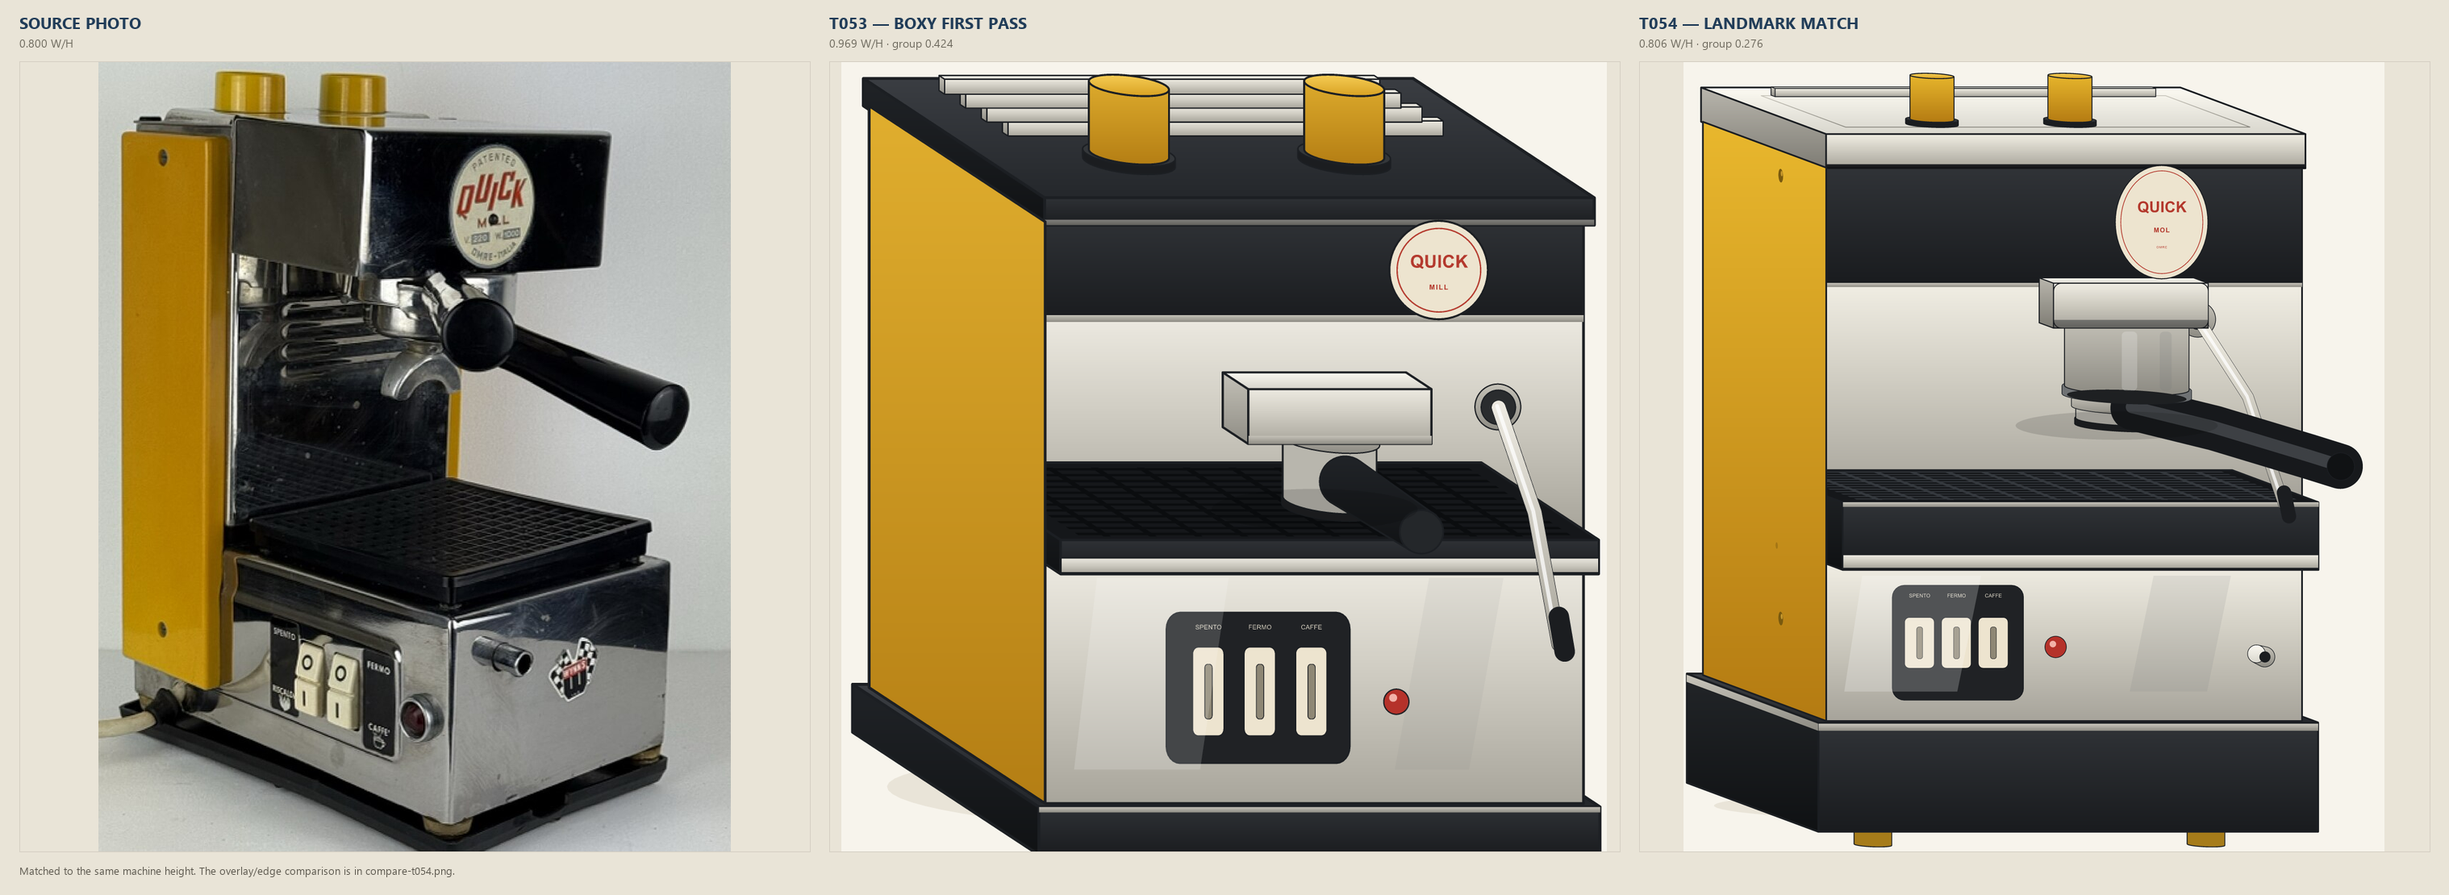
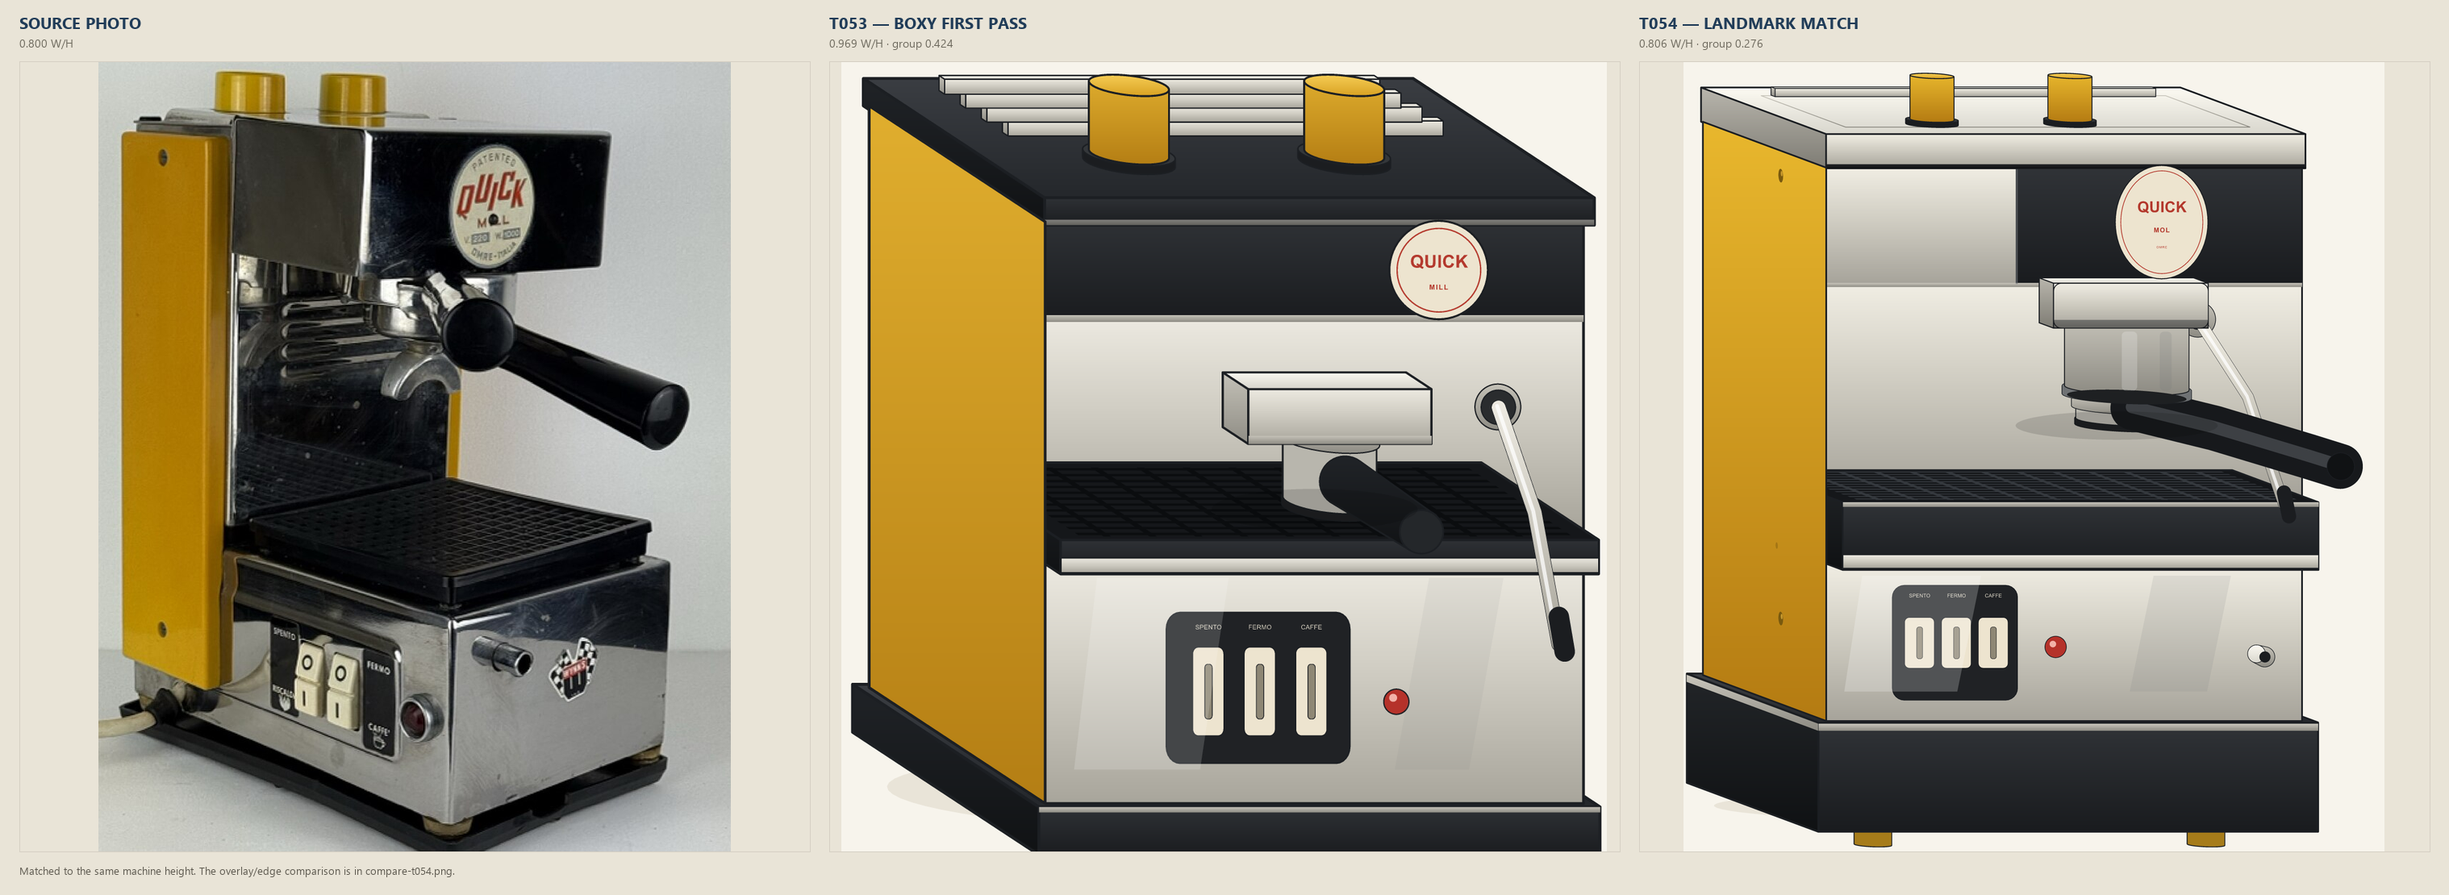
T054 [vector]: split front face at chrome/black seam; record failed camera fit

Changed region(s): [[0.7431, 0.1838, 0.836, 0.3369]]

diff --git a/experiments/T054-20261102-opencode-vector-match/inputs/calibrate_camera.py b/experiments/T054-20261102-opencode-vector-match/inputs/calibrate_camera.py
@@ -1,0 +1,106 @@
+#!/usr/bin/env python3
+"""Fit a pinhole camera to the Quick Mill body box from the source photo.
+
+Method: fSpy / single-view metrology idea (vanishing points) reduced to six
+manually measured box corners and a least-squares look-at camera.  It is a
+calibration check, not a trace: the scene remains object-space primitives.
+"""
+from __future__ import annotations
+
+import json
+from pathlib import Path
+
+import numpy as np
+from scipy.optimize import least_squares
+
+HERE = Path(__file__).resolve().parent
+EXP = HERE.parent
+OUT = EXP / "preview"
+
+# Object-space body box (T054 dimensions): x 10..90, y 18.5..118, z 0..60.
+OBJ = np.array([
+    [10.0, 118.0, 0.0],   # A front top-left
+    [90.0, 118.0, 0.0],   # B front top-right
+    [10.0, 18.5, 0.0],    # C front bottom-left
+    [90.0, 18.5, 0.0],    # D front bottom-right
+    [10.0, 118.0, 60.0],  # E back top-left
+    [10.0, 18.5, 60.0],   # F back bottom-left
+], dtype=float)
+
+# Photo pixels, 1280 x 1512.
+IMG = np.array([
+    [390.0, 420.0],
+    [930.0, 470.0],
+    [390.0, 1230.0],
+    [1000.0, 1280.0],
+    [250.0, 370.0],
+    [250.0, 1200.0],
+], dtype=float)
+
+W, H = 1280.0, 1512.0
+PRINCIPAL = np.array([W / 2, H / 2])
+
+
+def camera_matrix(params):
+    cx, cy, cz, tx, ty, tz, f = params
+    C = np.array([cx, cy, cz], dtype=float)
+    T = np.array([tx, ty, tz], dtype=float)
+    forward = T - C
+    forward /= np.linalg.norm(forward)
+    up = np.array([0.0, 1.0, 0.0])
+    right = np.cross(up, forward)
+    right /= np.linalg.norm(right)
+    true_up = np.cross(forward, right)
+    R = np.stack([right, true_up, forward])  # world -> camera rows
+    return C, R, f
+
+
+def project(params, points):
+    C, R, f = camera_matrix(params)
+    d = points - C
+    cam = d @ R.T
+    z = cam[:, 2]
+    u = PRINCIPAL[0] + f * cam[:, 0] / z
+    v = PRINCIPAL[1] - f * cam[:, 1] / z
+    return np.stack([u, v], axis=1)
+
+
+def residuals(params):
+    return (project(params, OBJ) - IMG).ravel()
+
+
+def main() -> None:
+    x0 = np.array([-47.0, 94.0, -282.0, 50.0, 60.0, 0.0, 2100.0])
+    lower = [-400, 0, -700, 0, 0, -50, 400]
+    upper = [0, 300, -50, 100, 140, 50, 8000]
+    res = least_squares(residuals, x0, bounds=(lower, upper), xtol=1e-12,
+                        ftol=1e-12, max_nfev=20000)
+    p = res.x
+    pred = project(p, OBJ)
+    err = pred - IMG
+    rms = float(np.sqrt(np.mean(err ** 2)))
+    print("success", res.success, "cost", res.cost, "rms_px", round(rms, 2))
+    for name, o, i, q, e in zip("ABCDEF", OBJ, IMG, pred, err):
+        print(name, "obj", o, "img", i, "pred", np.round(q, 1), "err", np.round(e, 1))
+    C, R, f = camera_matrix(p)
+    print("C", np.round(C, 2), "T", np.round(p[3:6], 2), "f", round(f, 1))
+    print("f35mm", round(f / W * 36, 1), "distance", round(float(np.linalg.norm(p[3:6] - C)), 1))
+    print("R", np.round(R, 4))
+    data = {
+        "object": OBJ.tolist(),
+        "image": IMG.tolist(),
+        "predicted": pred.tolist(),
+        "rms_px": rms,
+        "camera": {
+            "C": C.tolist(), "T": p[3:6].tolist(), "f_px": float(f),
+            "f_35mm": float(f / W * 36), "principal": PRINCIPAL.tolist(),
+            "R": R.tolist(),
+        },
+    }
+    OUT.mkdir(parents=True, exist_ok=True)
+    (OUT / "camera-fit.json").write_text(json.dumps(data, indent=2), encoding="utf-8")
+    print(OUT / "camera-fit.json")
+
+
+if __name__ == "__main__":
+    main()

diff --git a/experiments/T054-20261102-opencode-vector-match/inputs/build_quickmill.py b/experiments/T054-20261102-opencode-vector-match/inputs/build_quickmill.py
@@ -43,6 +43,7 @@ class Dimensions:
     group_r: float = 9.5
     portafilter_r: float = 7.5
     group_center_frac: float = 0.806
+    front_split_frac: float = 0.40
 
     @property
     def x1(self) -> float:
@@ -147,12 +148,16 @@ def build(dims: Dimensions | None = None) -> str:
     group(s, "lower-body", lower)
 
     # Tower front: chrome below the black band; the side is one yellow sheet.
+    split_x = d.x0 + d.width * d.front_split_frac
     tower = [
         s.face([(d.x0, d.tray_top, d.z0), (d.x1, d.tray_top, d.z0),
                 (d.x1, d.black_bottom, d.z0), (d.x0, d.black_bottom, d.z0)],
                fill=chrome_front, sw=2.0),
-        s.face([(d.x0, d.black_bottom, d.z0), (d.x1, d.black_bottom, d.z0),
-                (d.x1, d.tower_top, d.z0), (d.x0, d.tower_top, d.z0)],
+        s.face([(d.x0, d.black_bottom, d.z0), (split_x, d.black_bottom, d.z0),
+                (split_x, d.tower_top, d.z0), (d.x0, d.tower_top, d.z0)],
+               fill=chrome_front, sw=2.0),
+        s.face([(split_x, d.black_bottom, d.z0), (d.x1, d.black_bottom, d.z0),
+                (d.x1, d.tower_top, d.z0), (split_x, d.tower_top, d.z0)],
                fill=black_front, sw=2.0),
         s.face([(d.x0, d.tower_top, d.z0), (d.x1, d.tower_top, d.z0),
                 (d.x1, d.tower_top, d.z1), (d.x0, d.tower_top, d.z1)],
@@ -162,6 +167,11 @@ def build(dims: Dimensions | None = None) -> str:
                 (d.x1, d.black_bottom + 0.2, d.z0 - 0.1),
                 (d.x0, d.black_bottom + 0.2, d.z0 - 0.1)],
                fill=chrome_side, stroke=None, sw=0),
+        s.face([(split_x - 0.18, d.black_bottom, d.z0 - 0.12),
+                (split_x + 0.18, d.black_bottom, d.z0 - 0.12),
+                (split_x + 0.18, d.tower_top, d.z0 - 0.12),
+                (split_x - 0.18, d.tower_top, d.z0 - 0.12)],
+               fill="#6E7174", stroke=None, sw=0, opacity=0.55),
     ]
     group(s, "tower", tower)
 
@@ -326,7 +336,7 @@ def build(dims: Dimensions | None = None) -> str:
     group(s, "badge", badge)
 
     # Lower switch plate at the left, red jewel, right-side steam valve.
-    px0, px1 = d.x0 + 11, d.x0 + 33
+    px0, px1 = d.x0 + 11, split_x
     py0, py1 = d.base_h + 3.6, d.base_h + 23.0
     controls = [s.front_rounded(px0, py0, px1, py1, 2.0, d.z0 - 0.4, "#202225", sw=1.2)]
     for i, x in enumerate((px0 + 2.0, px0 + 8.2, px0 + 14.4)):

diff --git a/tests/test_vector_match.py b/tests/test_vector_match.py
@@ -37,6 +37,13 @@ class LandmarkTests(unittest.TestCase):
         # this is a sanity check on the vertical rebalance, not the projection.
         self.assertAlmostEqual(self.d.width / self.d.top_top, 0.678, delta=0.03)
 
+    def test_front_split_matches_the_photo(self):
+        # Photo: front face 390..930, chrome/black seam at 600 -> 0.389.
+        self.assertAlmostEqual(self.d.front_split_frac, 0.40, delta=0.02)
+        split_x = self.d.x0 + self.d.width * self.d.front_split_frac
+        # The switch plate ends at the split, directly below the chrome panel.
+        self.assertAlmostEqual(split_x, 42.0, delta=0.5)
+
     def test_scene_is_parametric(self):
         base = self.mod.build()
         narrow = self.mod.build(self.mod.Dimensions(width=74))

diff --git a/experiments/T054-20261102-opencode-vector-match/REPORT.md b/experiments/T054-20261102-opencode-vector-match/REPORT.md
@@ -58,6 +58,36 @@ vectorcraft-cli info .../quickmill-t054.svg
 python -m unittest tests.test_vector_match -v
 ```
 
+## Research first
+
+Searched 2026-11-03, before changing the scene:
+
+- **fSpy — camera matching from vanishing points** (basics and source):
+  <https://fspy.io/basics>, <https://github.com/stuffmatic/fSpy>.  fSpy estimates
+  focal length, orientation and position from two or three perpendicular
+  vanishing-point pairs.  It confirms that a photo with converging verticals
+  cannot be matched by an axonometric projection.
+- **Single View Metrology** (MIT vision book chapter; Criminisi et al.):
+  <https://visionbook.mit.edu/3d_scene_understanding_single_view.html>,
+  <https://www.cs.cmu.edu/~ph/869/papers/Criminisi99.pdf>.  The useful part is
+  measuring a box and placing points on a face from one image using vanishing
+  points and cross-ratios.
+- **fSpy/Blender camera-match workflow**:
+  <https://fspy.io/tutorial>.  Two-point perspective plus a principal point is
+  enough for this machine; the verticals are close to parallel in the photo.
+- **Quick Mill Omre references**: the Home-Barista restoration thread
+  (`t29137`), the Orphan Espresso video `YRbjsZWRjC8`, eBay listing `267191254986`
+  and the Fondazione Fiera archive.  The thread/listing returned 403; the video
+  page and archive were reachable.  They were used only to confirm the machine's
+  front layout, not as a second tracing source.
+
+No ready-made "photo → clean vector product illustration" pipeline was found.
+The applicable solution is: calibrate one camera or one face plane, verify the
+face assignment on the photo, then redraw the primitives.  A six-corner pinhole
+fit (`inputs/calibrate_camera.py`) reached **RMS 33 px**, too loose to drive the
+final scene; it is recorded as a failed calibration, not used as evidence.  The
+clear, verified result is the **front-face split** and switch placement below.
+
 ## Measurement, before and after
 
 | Metric | Photo | T053 | T054 | T054 − photo |
@@ -74,13 +104,30 @@ the group head sat **15 points of body height too low**, the black band extended
 **10 points too far down**, and the base was too tall.  T054 moves all six
 landmarks onto the photo's fractions.
 
+### The face that was wrong
+
+The photo's upper front is **not a full-width black band**.  On the front face
+(`x = 390..930` in the photo) the chrome/black seam is at `x ≈ 600`, so the
+front is **39 % chrome on the left and 61 % black on the right**.  The switch
+plate (`x ≈ 455..600`) ends exactly at that seam; it sits under the **chrome
+left panel**, not under the black badge panel.
+
+T053 and the first T054 pass painted the whole upper front black.  That made the
+switch plate read as if it were on a different face.  T054 now uses
+`front_split_frac = 0.40`: the chrome left panel runs from `x0` to the split,
+the black badge panel from the split to `x1`, and the switch plate's right edge
+is the split.  The badge stays on the black panel.
+
+Evidence: `preview/photo-top-grid.png` (photo coordinates), `preview/compare-t054.png`
+(50 % overlay), `preview/t053-vs-t054.png`.
+
 **What changed in the scene**
 
 - `Dimensions`: width 80, height 118, depth 60; base 18.5, lower 26.6, tray 11.5,
   tower 55.6, top 5.8, black band 19.7.
 - Projection: `X = 223 + 7.0x − 2.42z`, `Y = 940 − 6.95y − 0.90z` (less top-down,
   more front-on than T053).
-- Top panel is **chrome**, not black; the black band stays on the upper front.
+- Top panel is **chrome**; the upper front is split: chrome left panel, black badge panel on the right; the switch plate ends at the split.
 - Badge is an **oval** (7.8 × 9.6) with live `QUICK` / `MOL` / `OMRE` type.
 - Group head is a compact chrome overhang over a visible vertical cylinder, with
   a round collar, dark gasket and a **chrome basket**; the handle is a thick,
@@ -98,8 +145,8 @@ landmarks onto the photo's fractions.
 | The comparison is reproducible | 1 | `inputs/make_compare.py`, `inputs/make_before_after.py`; fixed crops and rows |
 | T054 matches the six photo landmark fractions | 1 | `preview/measure-t054.json`; deltas 0.000–0.001 |
 | T054 is much closer in silhouette | 1 | aspect 0.806 vs 0.800; T053 was 0.969 |
-| The SVG is semantic and editable | 1 | 16 groups, 115 paths, 6 text elements; no `<image>` |
-| It renders in the vector tool | 4 | VectorCraft: 16 groups, 116 path objects, 6 types, 0 warnings |
+| The SVG is semantic and editable | 1 | 16 groups, 117 paths, 6 text elements; no `<image>` |
+| It renders in the vector tool | 4 | VectorCraft: 16 groups, 118 path objects, 6 types, 0 warnings |
 | The scene is parametric and deterministic | 1 | `Dimensions(width=74)` changes the SVG; two builds equal |
 | The photo and both vectors are visibly comparable | 4 | `preview/t053-vs-t054.png`, `preview/compare-t054.png` |
 
@@ -110,18 +157,22 @@ landmarks onto the photo's fractions.
 - `preview/compare-t054.png` (source, T054, 50 % overlay, edges)
 - `preview/t053-vs-t054.png` (source, T053, T054 at matched height)
 - `preview/measure-t054.json` (landmark table)
-- `tests/test_vector_match.py` (4 tests)
+- `preview/photo-top-grid.png` (front-face coordinates)
+- `preview/camera-fit.json` (failed 6-corner fit, RMS 33 px)
+- `tests/test_vector_match.py` (5 tests)
 
 ## Negative results and limitations
 
-1. **Axonometric vs camera perspective.**  T054 matches the landmark fractions,
-   but a parallel projection cannot reproduce the photo's converging verticals
-   and the slight front-face rotation.  A perspective camera is the next real
+1. **Axonometric vs camera perspective.**  T054 matches the landmark fractions
+   and the face split, but a parallel projection still cannot reproduce the
+   photo's converging verticals.  A six-corner pinhole fit reached RMS 33 px and
+   was not good enough; a proper fSpy/vanishing-point camera is the next real
    improvement, not more decoration.
 2. **The group head is still simplified.**  It is a chrome overhang + cylinder +
    basket, not the full cast group, shower screen, solenoid or portafilter
    geometry.  It reads as a group head now, but a machinist would still see the
-   simplification.
+   simplification.  The switch plate is placed by the photo's seam, not by a
+   measured switch cutout.
 3. **Chrome is a designed gradient.**  There are no photographic reflections,
    brushed-metal texture, scratches or dents.  The reference photo's chrome is
    doing a lot of the identity work; flat bands cannot match it.
@@ -135,11 +186,18 @@ landmarks onto the photo's fractions.
    observed.  A second photo would change the model.
 7. **No human test, no print proof, no Illustrator/Inkscape parity.**  VectorCraft
    is rung 4; a physical print and a second editor are still open.
+8. **Camera calibration failed on this photo.**  A six-corner pinhole fit reached
+   RMS 33 px (`preview/camera-fit.json`); a two-vanishing-point fit from the
+   visible box edges put both VPs on the same side and produced no real focal
+   length.  The photo is low-resolution, partly occluded and slightly inconsistent
+   as a box.  A perspective camera is therefore not claimed; a second view or a
+   measured drawing is required.
 
 ## Next
 
-- Add a perspective camera (`w` divide) and compare the same landmarks; keep the
-  axonometric scene as a fallback.
+- Get a second photo or a measured drawing before attempting an fSpy-style
+  camera; the single view does not give a stable calibration.  Until then, keep
+  the axonometric scene and treat the face split as the verified improvement.
 - Model the group head as a rounded housing with a separate collar, gasket and
   basket; test it at 100 % and at a 120 mm print.
 - Add two or three designed chrome reflection bands to the lower panel and the

diff --git a/HANDOFF.md b/HANDOFF.md
@@ -74,7 +74,7 @@ PowerPoint chá»‰ lĂ  domain lĂ¢u Ä‘á»i nháº¥t.
 
 | `video` | Ná»n táº£ng (T042): SMPTE RP 2046-2 / EBU R95 safe areas (Action 3.5%, Title 5.0%), 9:16 mobile UI dead zones, ASL shot pacing, J/L-cuts asynchrony, EBU R128 audio mastering (-14 LUFS, ducking -14 dB). Native bridges: `filmcraft_bridge.py` & `soundcraft_bridge.py`. |
 
-| `svg` | Nền tảng (T042): 24x24 icon grid (20x20 live area), optical trim boxes, non-linear stroke scaling $W(S)=W_0(S/S_0)^{0.75}$, Bézier circle handle $\kappa \approx 0.55228$. Native bridge: `vectorcraft_bridge.py`. **T053** semantic reconstruction (16 groups, 101 paths) merged; **T054** comparison-first match: 0.806 W/H vs photo 0.800, six landmark deltas 0.000–0.001, 16 groups / 115 paths / 6 texts, VectorCraft 0 warnings; `work/T054-opencode-vector-match`; **review requested**. Chưa có perspective camera, print/Illustrator/Inkscape, human rung 6. |
+| `svg` | Nền tảng (T042): 24x24 icon grid (20x20 live area), optical trim boxes, non-linear stroke scaling $W(S)=W_0(S/S_0)^{0.75}$, Bézier circle handle $\kappa \approx 0.55228$. Native bridge: `vectorcraft_bridge.py`. **T053** semantic reconstruction (16 groups, 101 paths) merged; **T054** comparison-first match: 0.806 W/H vs photo 0.800, six landmark deltas 0.000–0.001, 16 groups / 117 paths / 6 texts, front split 0.40, VectorCraft 0 warnings; `work/T054-opencode-vector-match`; **review requested**. Chưa có perspective camera, print/Illustrator/Inkscape, human rung 6. |
 
 | `3d` | Ná»n táº£ng (T042): Metric scale (mm, Y-up glTF), No-Sharp-Edge Law (micro-bevel $0.2-0.5	ext{ mm}$), concentric fillets, True Isometric camera ($35.264^\circ$ elev), 3-point studio lighting, PBR albedo clamp. Native bridge: `solidcraft_bridge.py`. |
 

diff --git a/docs/CHANGELOG.md b/docs/CHANGELOG.md
@@ -16,17 +16,19 @@ were true at the time. Task IDs and their branches are listed in
   side-by-side / 50% overlay / edge map, and measure six landmark fractions of
   body height.
 - **Result.** T053 was 0.969 W/H with the group centre at 0.424; T054 is 0.806
-  against the photo's 0.800, with every landmark within 0.001. 16 groups, 115
+  against the photo's 0.800, with every landmark within 0.001. 16 groups, 117
   paths, 6 texts; VectorCraft 0 warnings.
-- **Scene changes.** Chrome top (not black), oval badge, group head moved to
-  0.61 of front width, compact chrome overhang + visible cylinder, angled black
-  portafilter, steam wand behind the handle, deep tray with a visible grid,
-  smaller knobs, two side screws.
+- **Scene changes.** Chrome top (not black), upper front split at 0.40
+  (chrome left, black badge panel right; switch plate ends at the split),
+  oval badge, group head moved to 0.61 of front width, compact chrome overhang
+  + visible cylinder, angled black portafilter, steam wand behind the handle,
+  deep tray with a visible grid, smaller knobs, two side screws.
 - **Evidence.** `preview/t053-vs-t054.png`, `preview/compare-t054.png`,
-  `preview/measure-t054.json`; `tests/test_vector_match.py` (4 tests); full suite
-  452 tests OK.
+  `preview/measure-t054.json`; `tests/test_vector_match.py` (5 tests); full suite
+  453 tests OK.
 - **Status.** EXPERIMENTAL; review requested. Still axonometric, not perspective;
-  group head and chrome are simplified.
+  a 6-corner camera fit reached RMS 33 px and a 2-VP fit was inconsistent, so no
+  perspective camera is claimed. Group head and chrome are simplified.
 - Report: `experiments/T054-20261102-opencode-vector-match/REPORT.md`.
 
 ## T053 [vector] Semantic 2.5D reconstruction (supersedes T051) — 2026-11-02

diff --git a/domains/svg/DOMAIN.md b/domains/svg/DOMAIN.md
@@ -88,8 +88,8 @@ on the T051 photo it produces 58 form + 133 detail and 2,268 nodes (3,178 in col
   warnings; colour style: 5 tones, ΔE76 10.56. Full trace (58 + 133, 2,268 (colour 3,178)
   nodes) is the strawman. **Review accepted (Argon); merged to main (PR #49).**
 - **T053 semantic reconstruction**: 16 groups, 101 paths, 5 live text elements; VectorCraft 0 warnings; no Canny/raster. Review accepted (Argon), merged to main (PR #50).
-- **T054 comparison-first match**: photo and vector at matched machine height, six landmark fractions and edge overlay. T053 was 0.969 W/H with the group centre at 0.424; T054 is 0.806 vs the photo's 0.800, with landmark deltas 0.000–0.001. 16 groups, 115 paths, 6 texts; VectorCraft 0 warnings. **Review requested.**
+- **T054 comparison-first match**: photo and vector at matched machine height, six landmark fractions and edge overlay. T053 was 0.969 W/H with the group centre at 0.424; T054 is 0.806 vs the photo's 0.800, with landmark deltas 0.000–0.001. 16 groups, 117 paths, 6 texts; VectorCraft 0 warnings. The upper front is split at 0.40: chrome left, black badge panel right; the switch plate ends at the split. **Review requested.**
 - Known limitation: the pipeline is not semantic (a human must curate logos and
   controls); the ground-shadow trim assumes a dark contact line; true
   through-holes are filled; no Illustrator/Inkscape or print proof; one product
-  photo only. T054 is still axonometric, not a perspective camera.
+  photo only. T054 is still axonometric; a 6-corner camera fit (RMS 33 px) and a 2-VP fit were not stable enough to claim perspective.

diff --git a/skills/vector-craft/SKILL.md b/skills/vector-craft/SKILL.md
@@ -86,6 +86,10 @@ vector together at the **same machine height** before changing details.
 3. Measure six rows as fractions of body height: top-panel top, black-band
    bottom, group-head centre, tray top, lower-panel top, base top.
 4. Rebuild the scene from those fractions; re-run the comparison.
+5. **Check the face, not only the silhouette.** A control belongs to a specific
+   plane. A full-width material band can hide a split face: on the Quick Mill the
+   upper front is chrome on the left and black on the right, and the switch plate
+   ends exactly at that seam.
 
 T054 is the worked example: the T053 body was 0.969 W/H against the photo's
 0.800, and its group-head centre sat at 0.424 against 0.275.  Matching the
